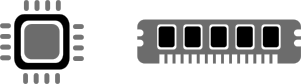
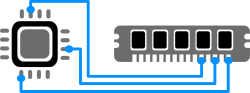
Minor tweaks

diff --git a/index.html b/index.html
@@ -31,27 +31,29 @@
     <!-- MAIN CONTENT -->
     <div id="main_content_wrap" class="outer">
       <section id="main_content" class="inner">
-		<p>
-			Instead of wasting your time with a general introduction let's jump right into the middle and see how Lambda Core is different from other programming languages. 
-		</p>
+
+	  <h4>Others design to run on this :</h4>
+		<img src="images/cpu_and_memory.png" />
+        <h4>We design to run on these :</h4>
+		<img src="images/all_tiers.png" />
+		
+		<blockquote>
+		<ul>
+			<li>Most programming languages are designed to run on CPU and RAM.</li>
+			<li>Lambda Core was designed to run on all tiers of a distributed system.</li>
+		</ul>
+		</blockquote>
+
 		
         <h3>
-			<a id="welcome-to-lambda-core" class="anchor" href="#welcome-to-lambda-core" aria-hidden="true"><span class="octicon octicon-link"></span></a>It has a wide scope ...
-		</h3>
-				
-		<ul>
-			<li>Lambda Core was designed to run on all tiers of a distributed system <img src="images/all_tiers.png" /></li>
-			<li>While most programming languages were designed to run on a single CPU paired with a RAM <img src="images/cpu_and_memory.png" /></li>
-		</ul>
-
-        <h3>
-			<a id="welcome-to-lambda-core" class="anchor" href="#welcome-to-lambda-core" aria-hidden="true"><span class="octicon octicon-link"></span></a>But a very specific purpose ...
+			<a id="welcome-to-lambda-core" class="anchor" href="#welcome-to-lambda-core" aria-hidden="true"><span class="octicon octicon-link"></span></a>Specific Purpose
 		</h3>
 		
 		<ul>
 			<li>It has everything you need to deal with complex data: filtering, transformations, matching, validation, defaulting, ...</li>
 			<li>How you read, write or display the data is excluded from the language and moved to the runtime environment</li>
 		</ul>
+		
 		
         <h3>
 			<a id="welcome-to-lambda-core" class="anchor" href="#welcome-to-lambda-core" aria-hidden="true"><span class="octicon octicon-link"></span></a>You can keep all your tools ...

diff --git a/stylesheets/stylesheet.css b/stylesheets/stylesheet.css
@@ -79,11 +79,12 @@ h2 {
 
 h3 {
   font-size: 24px;
-  color: #0090ff;
+  color: #ffffff;
+  text-shadow: 2px 2px 6px #000000;
 }
 
 h4 {
-  font-size: 21px;
+  font-size: 20px;
 }
 
 h5 {
@@ -141,13 +142,15 @@ img {
   max-width: 739px;
   padding: 5px;
   margin: 10px 0 10px 0;
+/*
   border: 1px solid #ebebeb;
-
+  
   box-shadow: 0 0 5px #ebebeb;
   -webkit-box-shadow: 0 0 5px #ebebeb;
   -moz-box-shadow: 0 0 5px #ebebeb;
   -o-box-shadow: 0 0 5px #ebebeb;
   -ms-box-shadow: 0 0 5px #ebebeb;
+*/
 }
 
 p img {
@@ -191,10 +194,10 @@ pre code {
 }
 
 blockquote {
-  color: #666;
   margin-bottom: 20px;
   padding: 0 0 0 20px;
-  border-left: 3px solid #bbb;
+  background-color: #fff;
+  box-shadow: 0 0 10px rgba(0,0,0,.1);
 }
 
 
